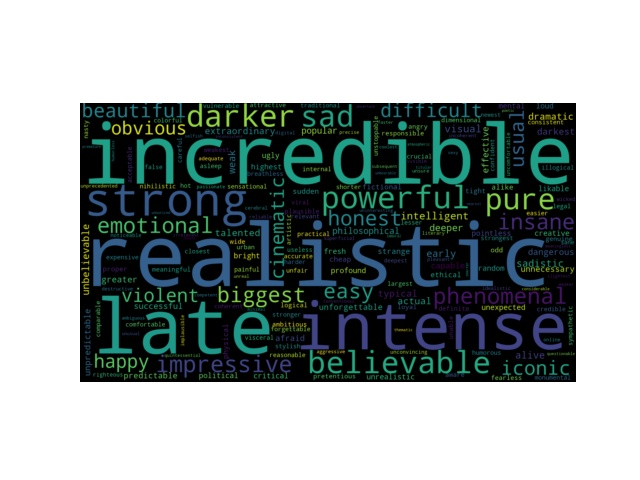
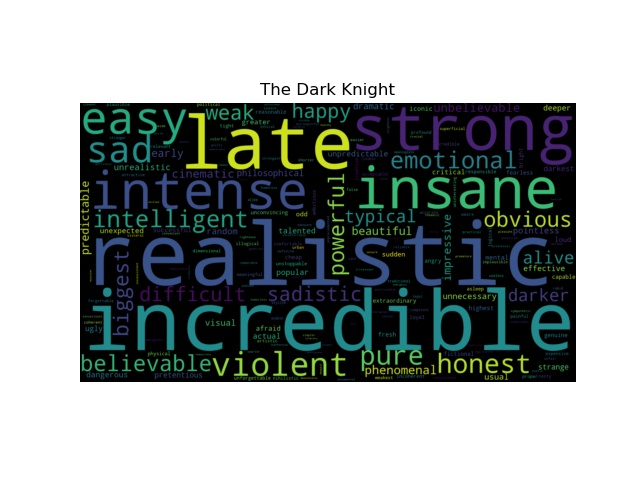
Added title to word clouds

Changed region(s): [[0.125, 0.1562, 0.9062, 0.8125]]

diff --git a/postprocessingVersion.py b/postprocessingVersion.py
@@ -25,6 +25,7 @@ s = uWords.split(',')
 # base for search on imdb https://www.imdb.com/find?q=the+dark+knight&ref_=nv_sr_sm
 # result_text is the td class 
 searchName = input('Type title of movie: ')
+titleName = searchName
 searchName = searchName.replace(" ", "+")
 searchUrl = 'https://www.imdb.com/find?q=' + searchName + '&ref_=nv_sr_sm'
 print("Search Url: " + searchUrl)
@@ -70,7 +71,7 @@ curAjaxUrl = curhtml.split('data-ajaxurl=\"')[1].split('\"')[0]
 curUrl = ''
 count = 0
 while "data-key" in curhtml:
-        if count >= 239: # 1000 reviews 
+        if count >= 39: # 1000 reviews 
             print("Done scraping!")
             break
         count+=1
@@ -149,5 +150,6 @@ wordcloud = WordCloud(font_path=None, width=1920, height=1080,stopwords=STOPWORD
 #plot words 
 plt.imshow(wordcloud, interpolation='bilinear')
 plt.axis('off')
+plt.title(titleName)
 plt.savefig(searchName+".jpg" )
 plt.show()
